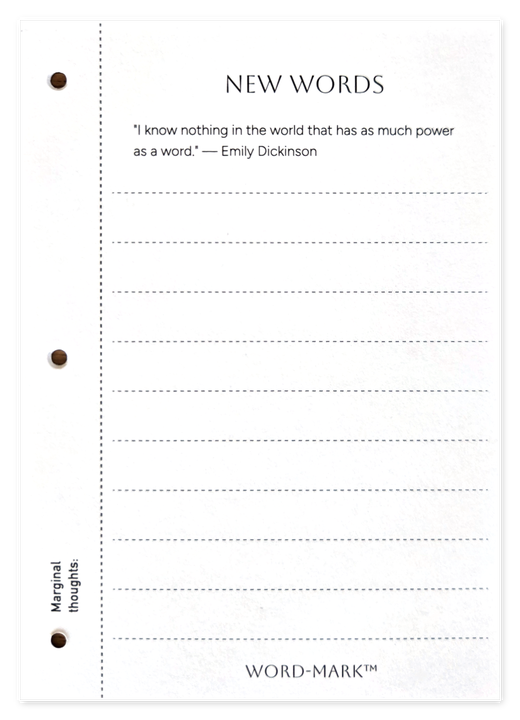
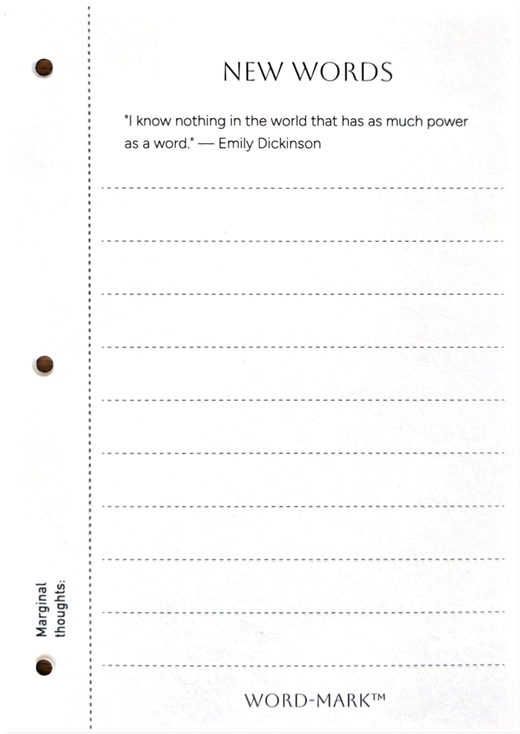
Use tightly-cropped bookmark cutout, stack hero images vertically
The tight cutout trims the transparent margin right to the page's edge
instead of leaving a large opaque rectangle around it. Also restructures
the hero composition from side-by-side overlap to a vertical stack
(cover on top, bookmark below), with a modest overlap so the bookmark
still tucks slightly behind the cover.

diff --git a/styles.css b/styles.css
@@ -212,7 +212,8 @@ html.js section.active { display: block; }
 }
 .hero-images {
   display: flex;
-  align-items: flex-end;
+  flex-direction: column;
+  align-items: center;
   justify-content: center;
 }
 .img-cover {
@@ -229,8 +230,7 @@ html.js section.active { display: block; }
   object-fit: cover;
   object-position: top;
   box-shadow: 0 8px 35px rgba(26,24,20,0.12);
-  margin-left: -41.3px;
-  margin-bottom: 36px;
+  margin-top: -60px;
   position: relative;
   z-index: 1;
 }
@@ -854,7 +854,7 @@ footer {
   .hero-title { font-size: 2.2rem; }
   .hero-images { justify-content: center; }
   .img-cover { width: 177.1px; height: 246.7px; }
-  .img-bookmark { width: 189.9px; height: 264px; margin-left: -29.8px; margin-bottom: 26.3px; }
+  .img-bookmark { width: 189.9px; height: 264px; margin-top: -46px; }
 
   /* How it works */
   .how-inner { padding: 4rem var(--pad); }
